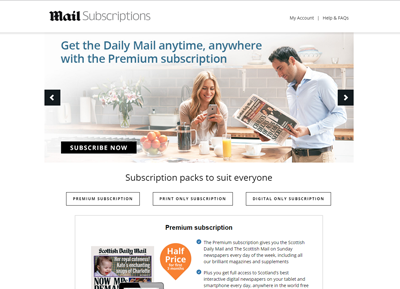
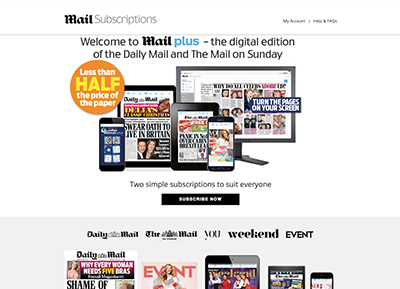
updated on projects for newlook

diff --git a/portfolio/src/js/PortfolioModals.js b/portfolio/src/js/PortfolioModals.js
@@ -3,7 +3,7 @@ import dailymailplusPrev from '../img/portfolio/dailymailplusPrev.png'
 import myMailPrev from '../img/portfolio/myMailPrev.png'
 import dmgsitePrev from '../img/portfolio/dmgsitePrev.png'
 import mailFinancePrev from '../img/portfolio/mailfinancePrev.png'
-import mailsubsPrev from '../img/portfolio/mailsubsPrev.png'
+import mailsubsPrev from '../img/portfolio/mailSubsMain.png'
 import roundiconsFree from '../img/portfolio/roundicons-free.png'
 import treehousePreview from '../img/portfolio/treehouse-preview.png'
 import startupFrameworkPreview from '../img/portfolio/startup-framework-preview.png'
@@ -13,6 +13,7 @@ import dmuPreview from '../img/portfolio/dmupreview.png'
 import povray from '../img/portfolio/povray.png'
 import luco from '../img/portfolio/luco.png'
 import bender from '../img/portfolio/bender.mp4'
+import mainsummer from '../img/portfolio/newlookFeelMain.png'
 import summer from '../img/portfolio/summerPrev.png'
 import storeWifi from '../img/portfolio/guestWifiPrev.png';
 
@@ -278,13 +279,20 @@ class ProfolioModals extends Component {
                         </div>
                         <div className="container">
                             <div className="row">
-                                <div className="col-lg-8 col-lg-offset-2">
+                                <div className="col-lg-12">
                                     <div className="modal-body">
                                         {/*<!-- Project Details Go Here -->*/}
                                         <h2>Mail Subscriptions</h2>
                                         <a target="_blank" rel="noopener noreferrer" href="https://www.mailsubscriptions.co.uk/"><p className="item-intro text-muted">click here to visit website</p></a>
-                                        <img className="img-responsive img-centered" src={mailsubsPrev} alt="" />
-                                        <p>Built using Bootstrap, JQuery and PHP Zend Framework</p>
+                                        <img className="img-responsive img-centered max-60" src={mailsubsPrev} alt="" />
+                                        <h3>Features</h3>
+                                        <img className="img-responsive img-centered max-50" src="//s3.eu-west-2.amazonaws.com/tej-portfolio-assets/device.gif" alt="" />
+                                        <p>Custom slider built to show that this product is avaiable on all platforms. This is updated everyday via AWS which pulls in the feed for the Newspaper Front page and other assets such as magazines</p>
+                                        <img className="img-responsive img-centered max-50" src="//s3.eu-west-2.amazonaws.com/tej-portfolio-assets/360.gif" alt="" />
+                                        <p>Pannellum Javascript library used to show 360 degree views of places around the world. This is updated everyday and is updated via AWS </p>
+                                        <img className="img-responsive img-centered max-50" src="//s3.eu-west-2.amazonaws.com/tej-portfolio-assets/menu.gif" alt="" />
+                                        <p>key frame animations written in css to create a slide animation. </p>
+                                        <strong><p>Built using Bootstrap, JQuery and PHP Zend Framework</p></strong>
                                         <button type="button" className="btn btn-primary" data-dismiss="modal"><i className="fa fa-times"></i> Close Project</button>
                                     </div>
                                 </div>
@@ -438,11 +446,17 @@ class ProfolioModals extends Component {
                                 <div className="col-lg-12">
                                     <div className="modal-body">
                                         {/*<!-- Project Details Go Here -->*/}
-                                        <h2>Free The Summer</h2>
+                                        <h2>free the summer</h2>
                                         <a target="_blank" rel="noopener noreferrer" href="http://www.newlook.com/row/free-the-summer"><p className="item-intro text-muted">click here to visit website</p></a>
-                                        <img className="img-responsive img-centered" src={summer} alt="" />
-                                        <p>Hybris/HTML5/CSS3/JS</p>
+                                        <img className="img-responsive img-centered max-60" src={mainsummer} alt="" />
+                                        <img className="img-responsive img-centered max-50" src={summer} alt="" />
+                                        <h3>Features</h3>
+                                        <img className="img-responsive img-centered max-50" src="//s3.eu-west-2.amazonaws.com/tej-portfolio-assets/feelthesummer.gif" alt="" />
+                                        <p>Campaign page for summer parallax scrolling to draw the user visually as they scroll</p>
+                                        <img className="img-responsive img-centered max-50" src="//s3.eu-west-2.amazonaws.com/tej-portfolio-assets/video.gif" alt="" />
+                                        <strong><p>Built on Hybris Platform</p></strong>
                                         <button type="button" className="btn btn-primary" data-dismiss="modal"><i className="fa fa-times"></i> Close Project</button>
+
                                     </div>
                                 </div>
                             </div>
@@ -465,7 +479,7 @@ class ProfolioModals extends Component {
                                         {/*<!-- Project Details Go Here -->*/}
                                         <h2>Store Wifi</h2>
                                         <p className="item-intro text-muted">In Store Wifi</p>
-                                        <img className="img-responsive img-centered" src={storeWifi} alt="" />
+                                        <img className="img-responsive img-centered max-60" src={storeWifi} alt="" />
                                         <p>HTML5/CSS3/JS</p>
                                         <button type="button" className="btn btn-primary" data-dismiss="modal"><i className="fa fa-times"></i> Close Project</button>
                                     </div>

diff --git a/portfolio/src/css/agency.css b/portfolio/src/css/agency.css
@@ -601,6 +601,16 @@ section h3.section-subheading {
     .timeline>li.timeline-inverted>.timeline-panel {
         padding: 0 20px 20px;
     }
+
+    .max-60 {
+        max-width: 60%;
+
+    }
+
+    .max-50 {
+        max-width: 50%;
+
+    }
 }
 
 @media(min-width:1200px) {
